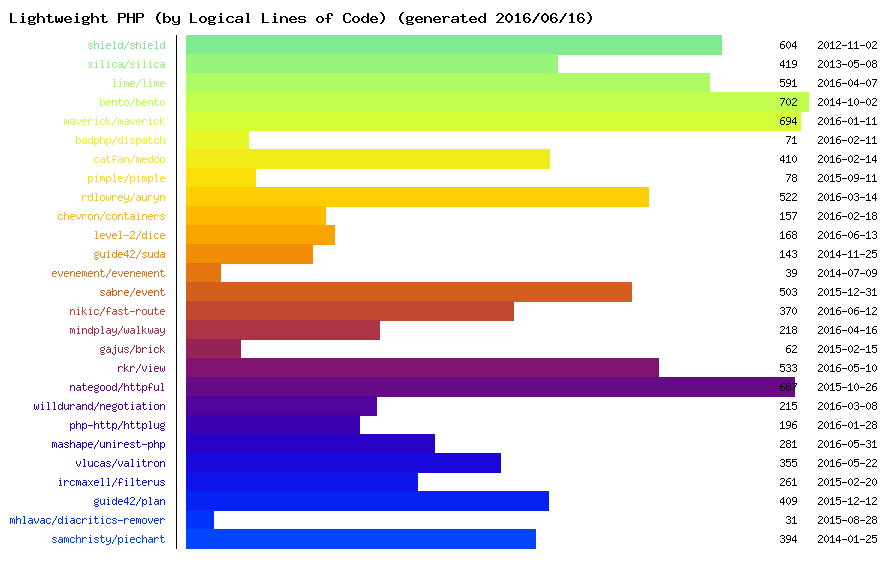
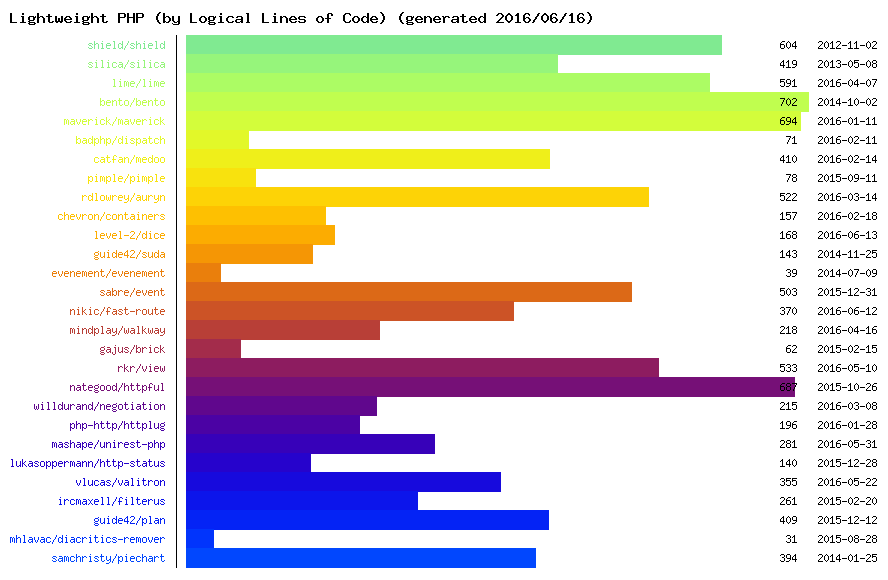
Add http-status

Changed region(s): [[0.2128, 0.7759, 0.6385, 0.9931], [0.0304, 0.7759, 0.1824, 0.9621], [0.8818, 0.7759, 0.9122, 0.8069]]

diff --git a/README.md b/README.md
@@ -57,6 +57,7 @@ List of lightweight PHP libraries.
 * [Negotiation](https://github.com/willdurand/Negotiation) - Content negotiation tools for PHP
 * [HTTPlug](https://github.com/php-http/httplug) - HTTP client abstraction for PHP
 * [Unirest](https://github.com/Mashape/unirest-php) - Simplified, lightweight HTTP client library
+* [Httpstatus](https://github.com/lukasoppermann/http-status) - A minimal package for working with HTTP statuses
 
 ## Validation and Filtering
 
